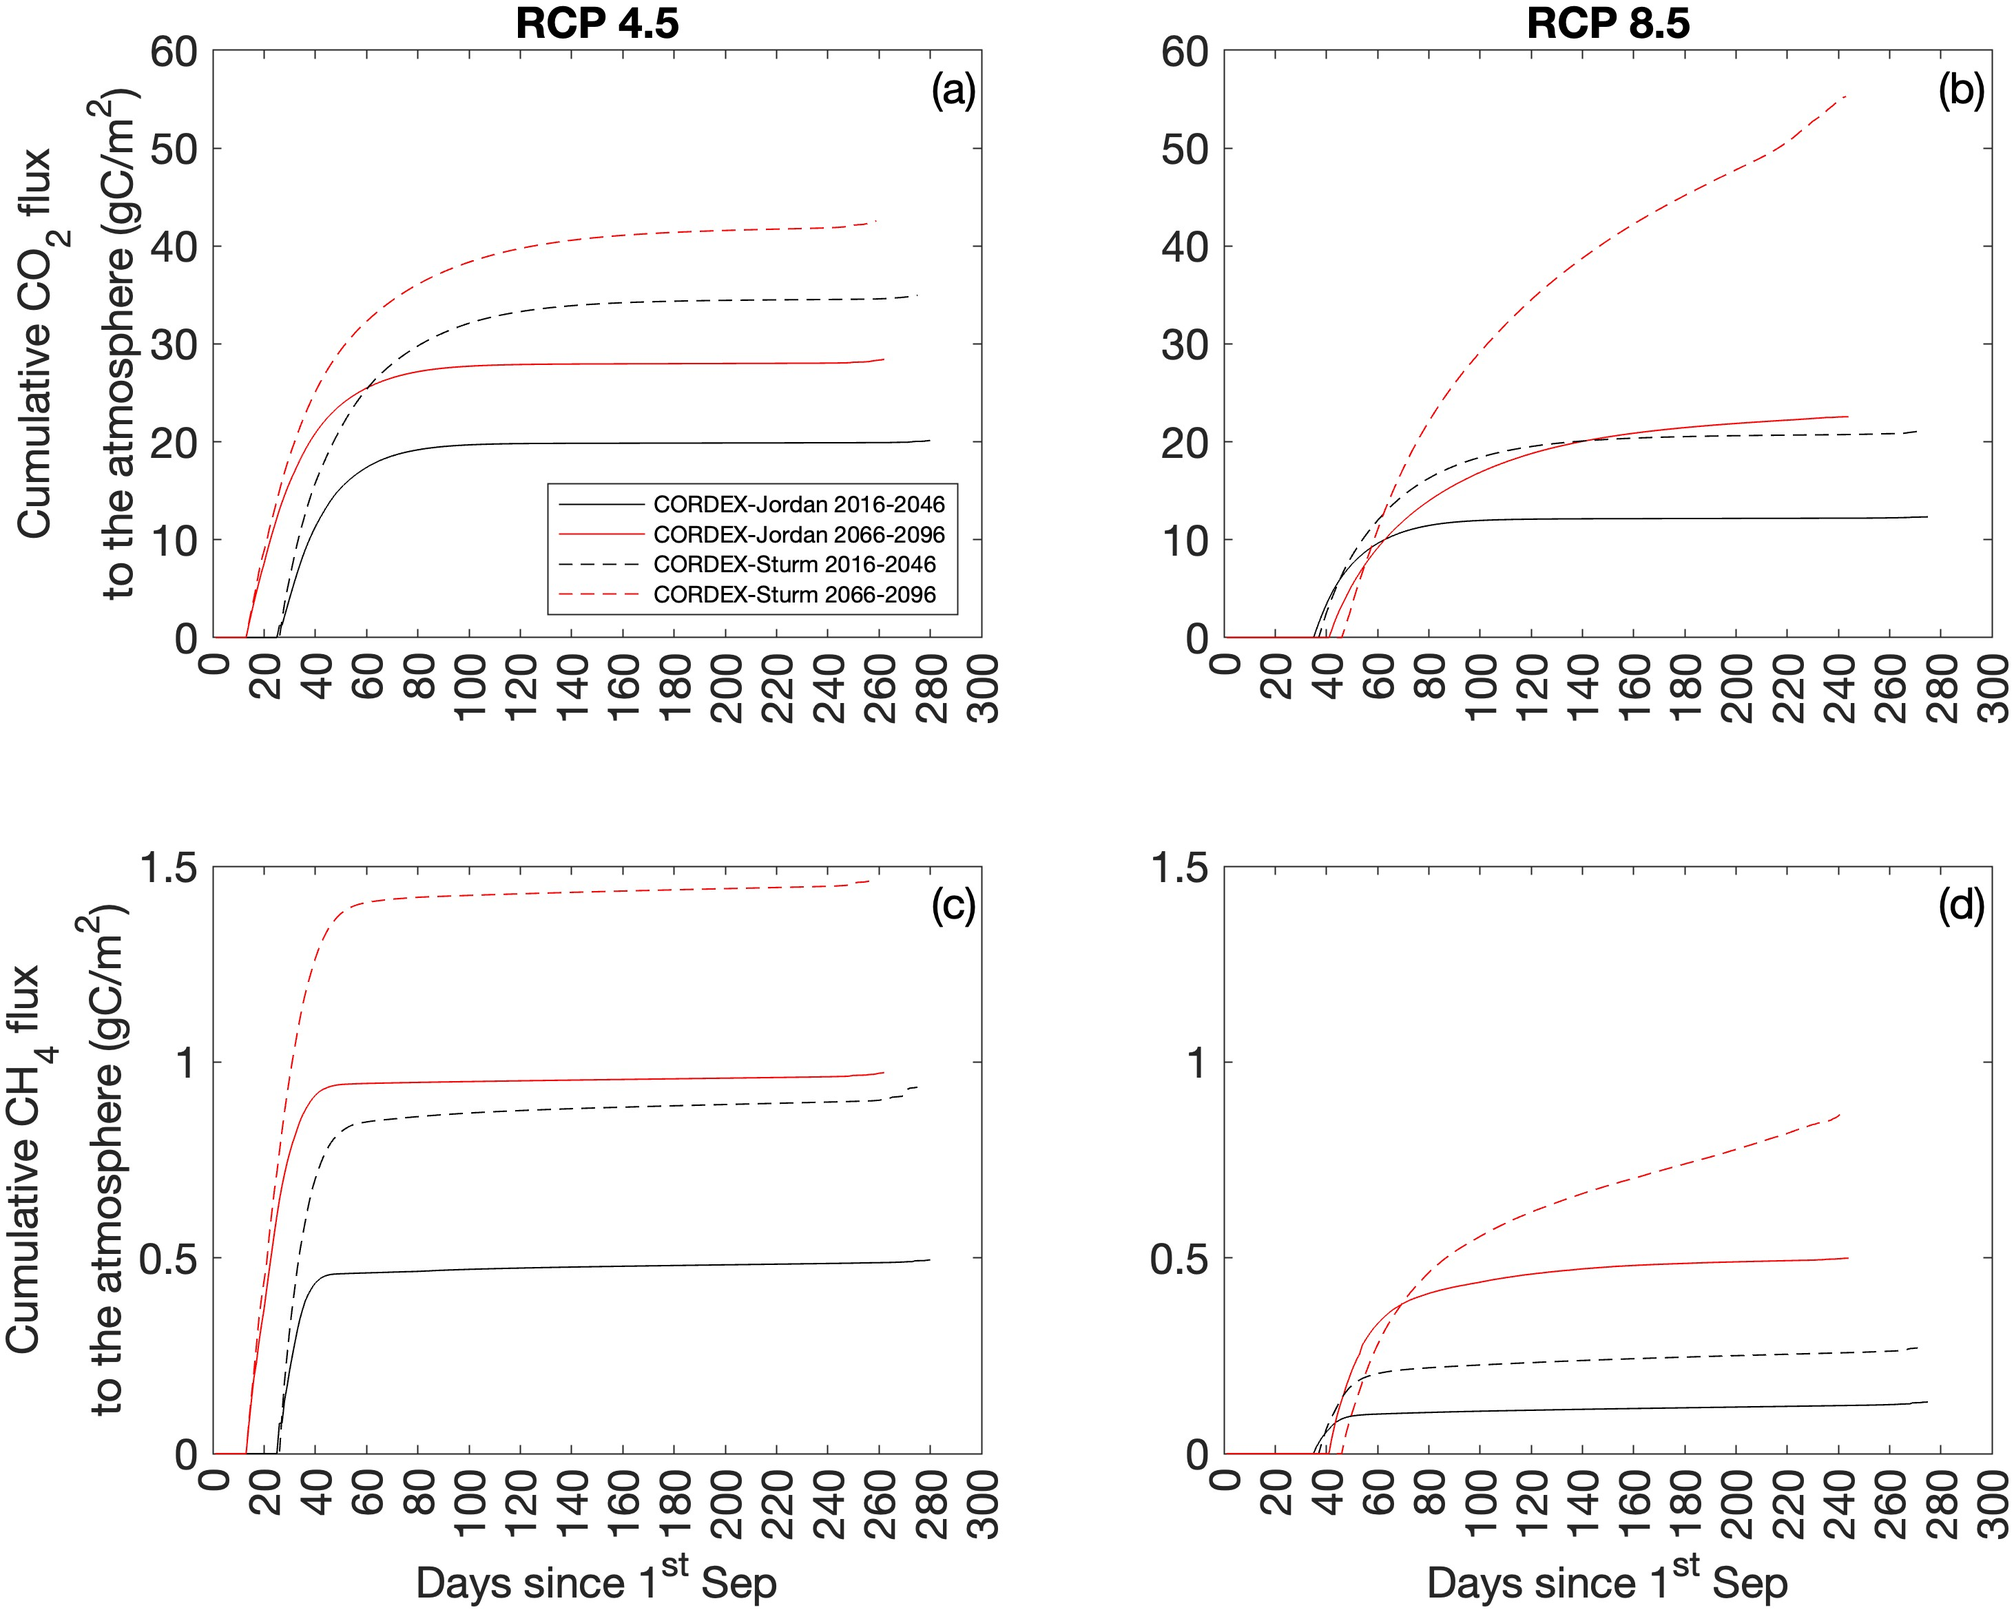
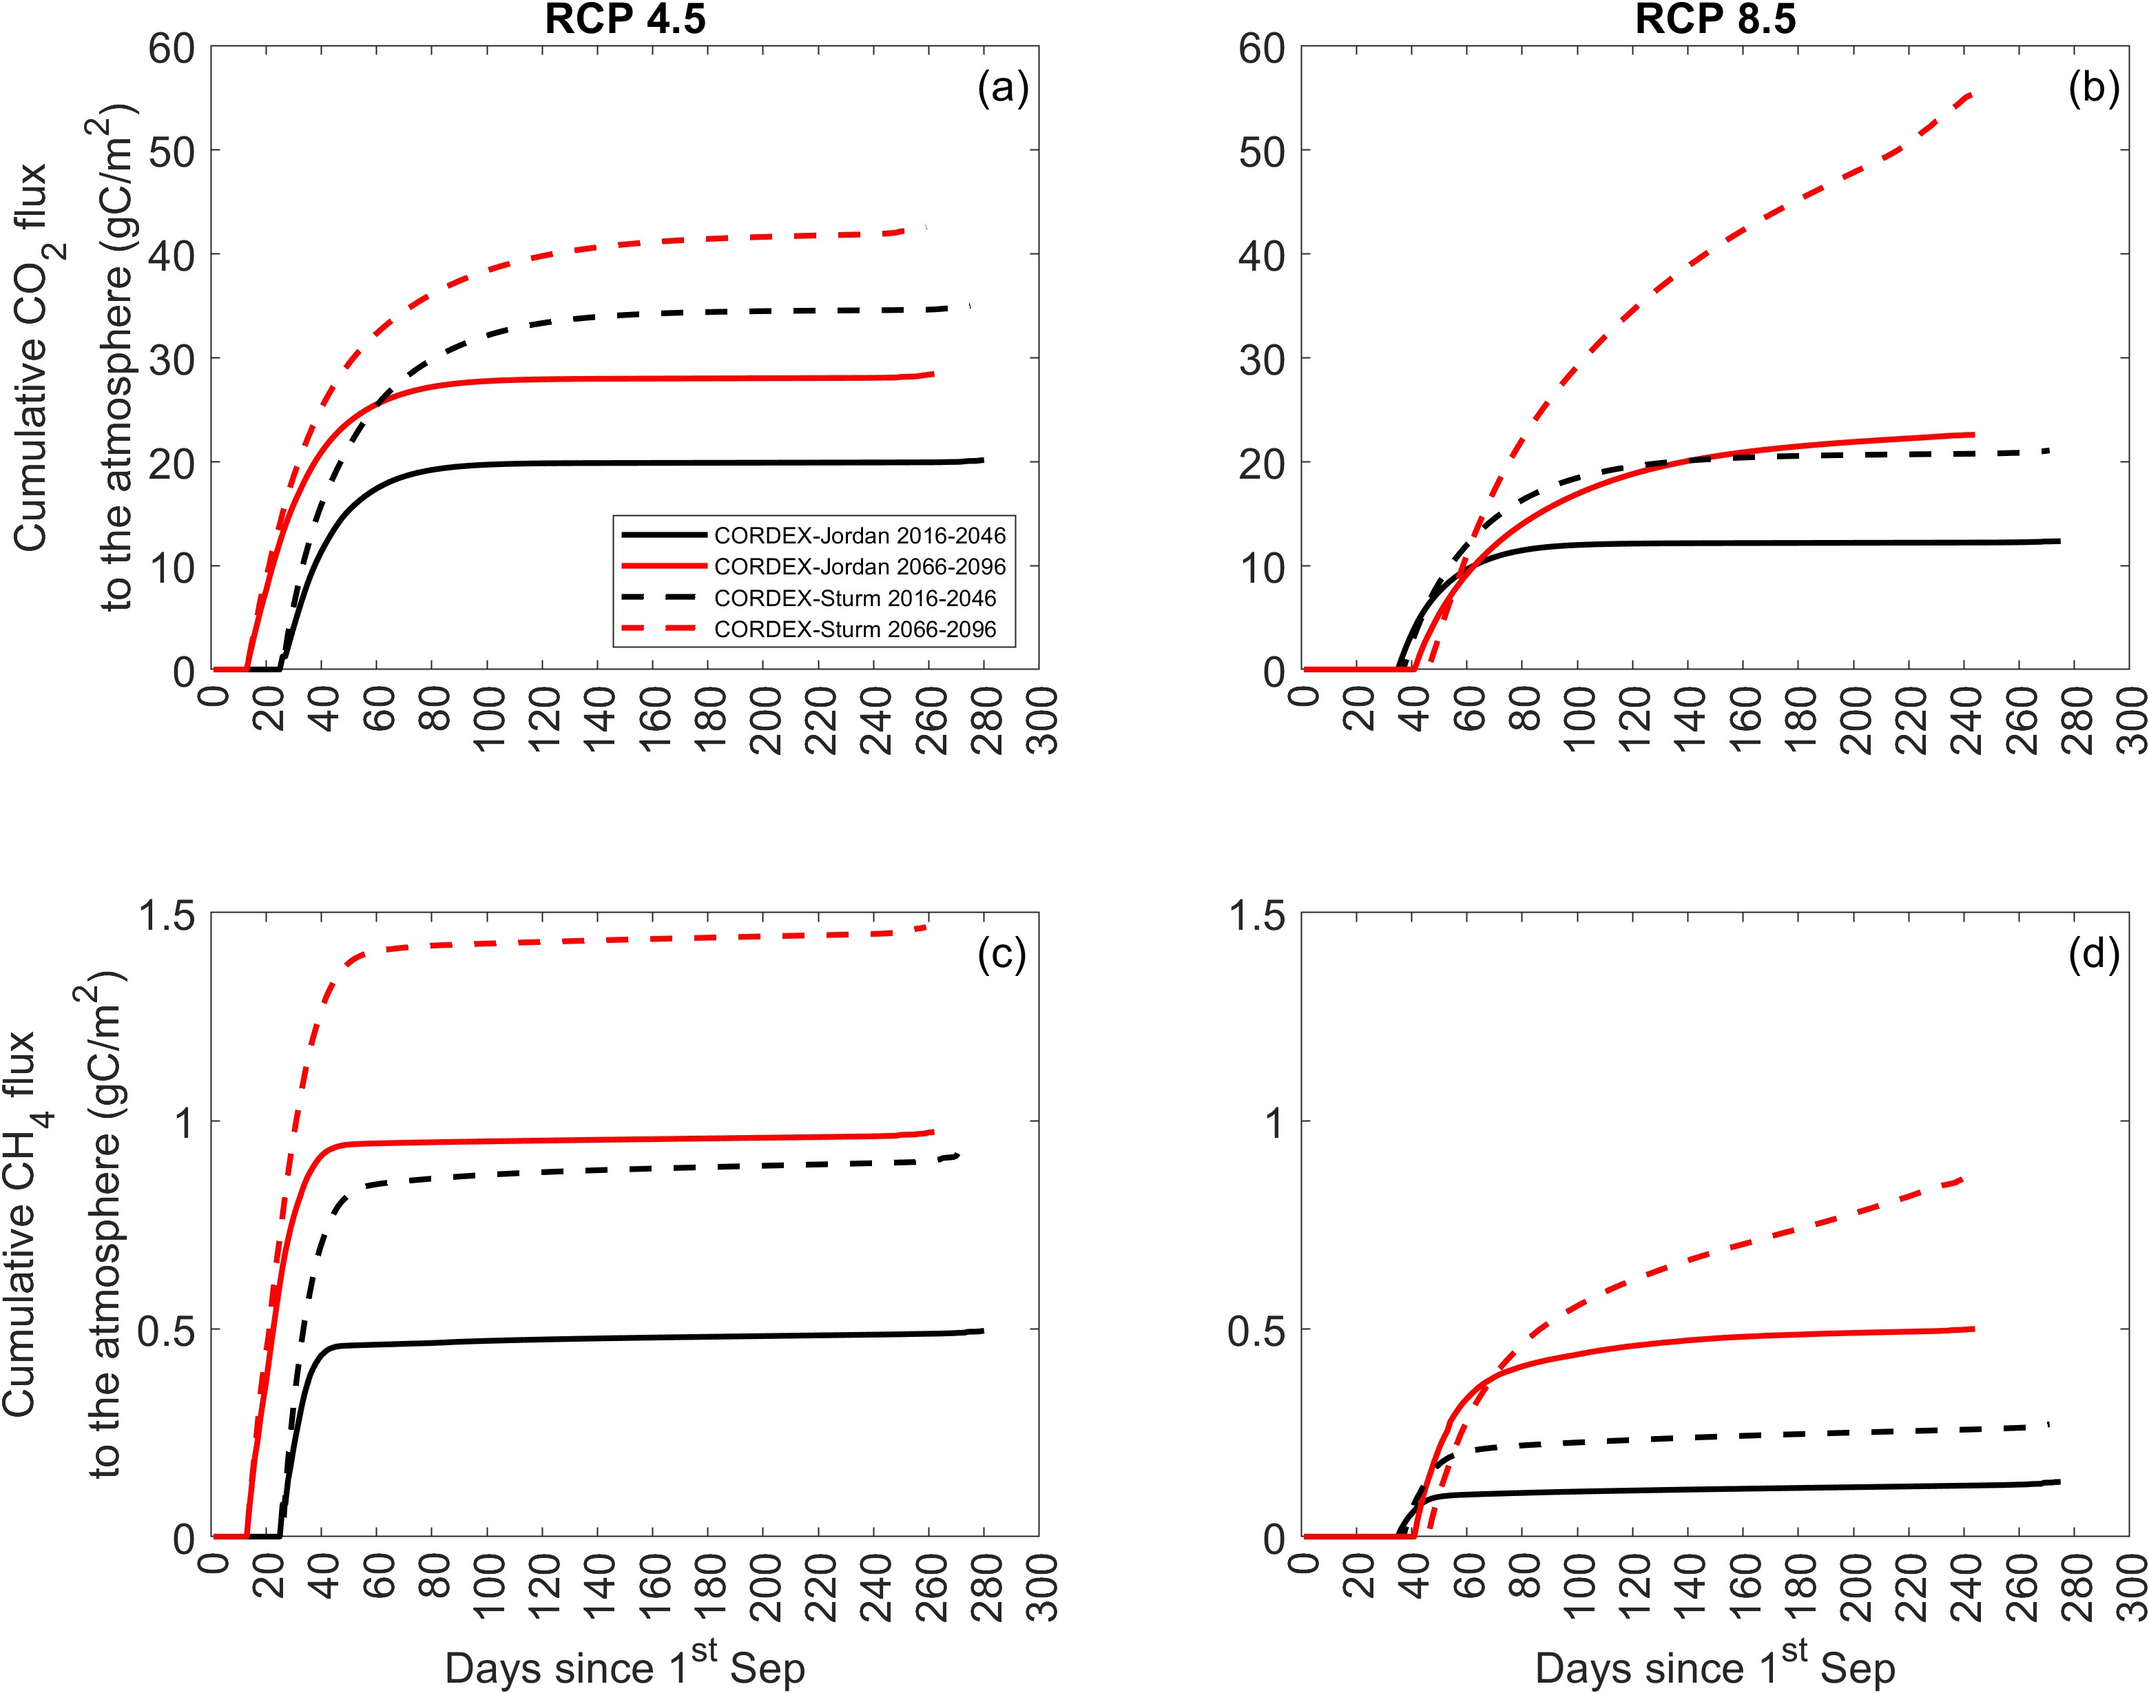
editing figure export commands

diff --git a/CLM_TVC/Figure 5/cumulative_carbon.m b/CLM_TVC/Figure 5/cumulative_carbon.m
@@ -14,12 +14,12 @@ subplot(2,2,1)
 ix=find(diff(SRi_J_2046sum)==0); % find rows where the difference between consectiuve vals =0
 ix2=find(ix > 200); % cuts off rows pertaining to start of snow season
 ix3=min(ix(ix2)); % this finds the rows pertaining to end of season (i.e. >200) and then gets the minimum row (ie earliest snow off)
-p1 = plot([1:ix3], (SRi_J_2046sum(1:ix3,1)), 'black');
+p1 = plot([1:ix3], (SRi_J_2046sum(1:ix3,1)), 'black', LineWidth=2);
 hold on
 ix=find(diff(SRi_J_2096sum)==0); % find rows where the difference between consectiuve vals =0
 ix2=find(ix > 200); % cuts off rows pertaining to start of snow season
 ix3=min(ix(ix2)); % this finds the rows pertaining to end of season (i.e. >200) and then gets the minimum row (ie earliest snow off)
-p2 = plot([1:ix3], (SRi_J_2096sum(1:ix3,1)), 'red');
+p2 = plot([1:ix3], (SRi_J_2096sum(1:ix3,1)), 'red', LineWidth=2);
 
 %further plot options
 set(gca, 'xtick' ,[0:20:304]);
@@ -35,12 +35,12 @@ hold on
 ix=find(diff(SRi_S_2046sum)==0); % find rows where the difference between consectiuve vals =0
 ix2=find(ix > 200); % cuts off rows pertaining to start of snow season
 ix3=min(ix(ix2)); % this finds the rows pertaining to end of season (i.e. >200) and then gets the minimum row (ie earliest snow off)
-p3 = plot([1:ix3], (SRi_S_2046sum(1:ix3,1)), 'k--');
+p3 = plot([1:ix3], (SRi_S_2046sum(1:ix3,1)), 'k--', LineWidth=2);
 hold on
 ix=find(diff(SRi_S_2096sum)==0); % find rows where the difference between consectiuve vals =0
 ix2=find(ix > 200); % cuts off rows pertaining to start of snow season
 ix3=min(ix(ix2)); % this finds the rows pertaining to end of season (i.e. >200) and then gets the minimum row (ie earliest snow off)
-p4 = plot([1:ix3], (SRi_S_2096sum(1:ix3,1)), 'r--');
+p4 = plot([1:ix3], (SRi_S_2096sum(1:ix3,1)), 'r--', LineWidth=2);
 set(gca, 'xtick' ,[0:20:304]);
 hold on
 xlim([0 300])
@@ -62,12 +62,12 @@ subplot(2,2,2)
 ix=find(diff(SRi_J_2046sum)==0); % find rows where the difference between consectiuve vals =0
 ix2=find(ix > 200); % cuts off rows pertaining to start of snow season
 ix3=min(ix(ix2)); % this finds the rows pertaining to end of season (i.e. >200) and then gets the minimum row (ie earliest snow off)
-p3 = plot([1:ix3], (SRi_J_2046sum(1:ix3,1)), 'k-');
+p3 = plot([1:ix3], (SRi_J_2046sum(1:ix3,1)), 'k-', LineWidth=2);
 hold on
 ix=find(diff(SRi_J_2096sum)==0); % find rows where the difference between consectiuve vals =0
 ix2=find(ix > 200); % cuts off rows pertaining to start of snow season
 ix3=min(ix(ix2)); % this finds the rows pertaining to end of season (i.e. >200) and then gets the minimum row (ie earliest snow off)
-p4 = plot([1:ix3], (SRi_J_2096sum(1:ix3,1)), 'r-');
+p4 = plot([1:ix3], (SRi_J_2096sum(1:ix3,1)), 'r-', LineWidth=2);
 set(gca, 'xtick' ,[0:20:304]);
 hold on
 xlim([0 300])
@@ -81,12 +81,12 @@ hold on
 ix=find(diff(SRi_S_2046sum)==0); % find rows where the difference between consectiuve vals =0
 ix2=find(ix > 200); % cuts off rows pertaining to start of snow season
 ix3=min(ix(ix2)); % this finds the rows pertaining to end of season (i.e. >200) and then gets the minimum row (ie earliest snow off)
-p3 = plot([1:ix3], (SRi_S_2046sum(1:ix3,1)), 'k--');
+p3 = plot([1:ix3], (SRi_S_2046sum(1:ix3,1)), 'k--', LineWidth=2);
 hold on
 ix=find(diff(SRi_S_2096sum)==0); % find rows where the difference between consectiuve vals =0
 ix2=find(ix > 200); % cuts off rows pertaining to start of snow season
 ix3=min(ix(ix2)); % this finds the rows pertaining to end of season (i.e. >200) and then gets the minimum row (ie earliest snow off)
-p4 = plot([1:ix3], (SRi_S_2096sum(1:ix3,1)), 'r--');
+p4 = plot([1:ix3], (SRi_S_2096sum(1:ix3,1)), 'r--', LineWidth=2);
 set(gca, 'xtick' ,[0:20:304]);
 hold on
 ylim([0 60])
@@ -104,12 +104,12 @@ subplot(2,2,3)
 ix=find(diff(FCH4i_J_2046sum)==0); % find rows where the difference between consectiuve vals =0
 ix2=find(ix > 200); % cuts off rows pertaining to start of snow season
 ix3=min(ix(ix2)); % this finds the rows pertaining to end of season (i.e. >200) and then gets the minimum row (ie earliest snow off)
-p3 = plot([1:ix3], (FCH4i_J_2046sum(1:ix3,1)), 'k-');
+p3 = plot([1:ix3], (FCH4i_J_2046sum(1:ix3,1)), 'k-', LineWidth=2);
 hold on
 ix=find(diff(FCH4i_J_2096sum)==0); % find rows where the difference between consectiuve vals =0
 ix2=find(ix > 200); % cuts off rows pertaining to start of snow season
 ix3=min(ix(ix2)); % this finds the rows pertaining to end of season (i.e. >200) and then gets the minimum row (ie earliest snow off)
-p4 = plot([1:ix3], (FCH4i_J_2096sum(1:ix3,1)), 'r-');
+p4 = plot([1:ix3], (FCH4i_J_2096sum(1:ix3,1)), 'r-', LineWidth=2);
 set(gca, 'xtick' ,[0:20:304]);
 hold on
 xlim([0 300])
@@ -123,12 +123,12 @@ hold on
 ix=find(diff(FCH4i_S_2046sum)==0); % find rows where the difference between consectiuve vals =0
 ix2=find(ix > 200); % cuts off rows pertaining to start of snow season
 ix3=min(ix(ix2)); % this finds the rows pertaining to end of season (i.e. >200) and then gets the minimum row (ie earliest snow off)
-p3 = plot([1:ix3], (FCH4i_S_2046sum(1:ix3,1)), 'k--');
+p3 = plot([1:ix3], (FCH4i_S_2046sum(1:ix3,1)), 'k--', LineWidth=2);
 hold on
 ix=find(diff(FCH4i_S_2096sum)==0); % find rows where the difference between consectiuve vals =0
 ix2=find(ix > 200); % cuts off rows pertaining to start of snow season
 ix3=min(ix(ix2)); % this finds the rows pertaining to end of season (i.e. >200) and then gets the minimum row (ie earliest snow off)
-p4 = plot([1:ix3], (FCH4i_S_2096sum(1:ix3,1)), 'r--');
+p4 = plot([1:ix3], (FCH4i_S_2096sum(1:ix3,1)), 'r--', LineWidth=2);
 set(gca, 'xtick' ,[0:20:304]);
 hold on
 xlim([0 300])
@@ -149,12 +149,12 @@ subplot(2,2,4)
 ix=find(diff(FCH4i_J_2046sum)==0); % find rows where the difference between consectiuve vals =0
 ix2=find(ix > 200); % cuts off rows pertaining to start of snow season
 ix3=min(ix(ix2)); % this finds the rows pertaining to end of season (i.e. >200) and then gets the minimum row (ie earliest snow off)
-p3 = plot([1:ix3], (FCH4i_J_2046sum(1:ix3,1)), 'k-');
+p3 = plot([1:ix3], (FCH4i_J_2046sum(1:ix3,1)), 'k-', LineWidth=2);
 hold on
 ix=find(diff(FCH4i_J_2096sum)==0); % find rows where the difference between consectiuve vals =0
 ix2=find(ix > 200); % cuts off rows pertaining to start of snow season
 ix3=min(ix(ix2)); % this finds the rows pertaining to end of season (i.e. >200) and then gets the minimum row (ie earliest snow off)
-p4 = plot([1:ix3], (FCH4i_J_2096sum(1:ix3,1)), 'r-');
+p4 = plot([1:ix3], (FCH4i_J_2096sum(1:ix3,1)), 'r-', LineWidth=2);
 set(gca, 'xtick' ,[0:20:304]);
 hold on
 xlim([0 300])
@@ -168,28 +168,27 @@ hold on
 ix=find(diff(FCH4i_S_2046sum)==0); % find rows where the difference between consectiuve vals =0
 ix2=find(ix > 200); % cuts off rows pertaining to start of snow season
 ix3=min(ix(ix2)); % this finds the rows pertaining to end of season (i.e. >200) and then gets the minimum row (ie earliest snow off)
-p3 = plot([1:ix3], (FCH4i_S_2046sum(1:ix3,1)), 'k--');
+p3 = plot([1:ix3], (FCH4i_S_2046sum(1:ix3,1)), 'k--', LineWidth=2);
 hold on
 ix=find(diff(FCH4i_S_2096sum)==0); % find rows where the difference between consectiuve vals =0
 ix2=find(ix > 200); % cuts off rows pertaining to start of snow season
 ix3=min(ix(ix2)); % this finds the rows pertaining to end of season (i.e. >200) and then gets the minimum row (ie earliest snow off)
-p4 = plot([1:ix3], (FCH4i_S_2096sum(1:ix3,1)), 'r--');
+p4 = plot([1:ix3], (FCH4i_S_2096sum(1:ix3,1)), 'r--', LineWidth=2);
 set(gca, 'xtick' ,[0:20:304]);
 hold on
 ylim([0 1.5])
 xlim([0 300])
 xlabel('Days since 1^{st} Sep')
 %% plot options
-annotation('textbox', [0.436448784376245 0.869630549190156 0.0329015544041451 0.0536062378167641], 'String', '(a)', 'EdgeColor', 'none', 'FontSize', 14, 'FontWeight', 'normal')
-annotation('textbox', [0.875316859306496 0.869630549190156 0.0334196891191709 0.0536062378167641], 'String', '(b)', 'EdgeColor', 'none', 'FontSize', 14, 'FontWeight', 'normal')
-annotation('textbox', [0.436448784376245 0.396297215856823 0.0329015544041451 0.053606237816764], 'String', '(c)', 'EdgeColor', 'none', 'FontSize', 14, 'FontWeight', 'normal')
-annotation('textbox', [0.875316859306496 0.396297215856823 0.0334196891191711 0.0536062378167641], 'String', '(d)', 'EdgeColor', 'none', 'FontSize', 14, 'FontWeight', 'normal')
+annotation('textbox', [0.433448784376245 0.869630549190156 0.0329015544041451 0.0536062378167641], 'String', '(a)', 'EdgeColor', 'none', 'FontSize', 14, 'FontWeight', 'normal')
+annotation('textbox', [0.874316859306496 0.869630549190156 0.0334196891191709 0.0536062378167641], 'String', '(b)', 'EdgeColor', 'none', 'FontSize', 14, 'FontWeight', 'normal')
+annotation('textbox', [0.433448784376245 0.396297215856823 0.0329015544041451 0.053606237816764], 'String', '(c)', 'EdgeColor', 'none', 'FontSize', 14, 'FontWeight', 'normal')
+annotation('textbox', [0.874316859306496 0.396297215856823 0.0334196891191711 0.0536062378167641], 'String', '(d)', 'EdgeColor', 'none', 'FontSize', 14, 'FontWeight', 'normal')
 %% save plot
 set(gcf, 'Position', [100 200 1150 850]);
 fontsize(15,'points')
 legendObj = findobj(gcf, 'Type', 'Legend');
 fs=8;
 set(legendObj, 'FontSize', fs);
-cd /Users/johnnyrutherford/'OneDrive - Northumbria University - Production Azure AD'/Documents/Figures/CLMdefaultTVC/
-% cd C:/Users/jadru/'OneDrive - Northumbria University - Production Azure AD'/Documents/Figures/CLMdefaultTVC/          
+cd C:\Users\jadru\'OneDrive - Northumbria University - Production Azure AD'\Documents\Figures\CLMdefaultTVC
 exportgraphics(gcf, "cumu.jpg", "Resolution",300)

diff --git a/CORDEX_TVC/Figure 1 and 2/T_P_frequency_TVC.m b/CORDEX_TVC/Figure 1 and 2/T_P_frequency_TVC.m
@@ -946,7 +946,5 @@ annotation('textbox', [0.622479166666667 0.77381231451366 0.1 0.1], 'String', '(
 annotation('textbox', [0.622479166666667 0.57081231451366, 0.1, 0.1], 'String', '(d)', 'EdgeColor', 'none', 'FontSize', 14, 'FontWeight', 'normal')
 annotation('textbox', [0.622479166666667, 0.37, 0.1, 0.1], 'String', '(f)', 'EdgeColor', 'none', 'FontSize', 14, 'FontWeight', 'normal')
 annotation('textbox', [0.622479166666667, 0.174, 0.1, 0.1], 'String', '(h)', 'EdgeColor', 'none', 'FontSize', 14, 'FontWeight', 'normal')
-%% Save figure
-% cd /Users/johnnyrutherford/'OneDrive - Northumbria University - Production Azure AD'/Documents/Figures/'Alex and bo forcing data'/TVC/
-cd C:\Users\w22026593\'OneDrive - Northumbria University - Production Azure AD'\Documents\Figures\'Alex and bo forcing data'\TVC
-exportgraphics(gcf, "frequency_tiled.jpg", "Resolution",300)
+%% Optional figure export
+% exportgraphics(gcf, "temp_precip_freq.jpg", "Resolution",300)

diff --git a/CLM_TVC/Figure 3/snow_and_soil.m b/CLM_TVC/Figure 3/snow_and_soil.m
@@ -444,7 +444,5 @@ annotation('textbox', [0.44, 0.235, 0.1, 0.1], 'String', '(e)', 'EdgeColor', 'no
 annotation('textbox',  [0.866979166666667 0.821244008502731 0.1 0.1], 'String', '(b)', 'EdgeColor', 'none', 'FontSize', 14, 'FontWeight', 'normal')
 annotation('textbox', [0.866979166666667 0.527681231451366, 0.1, 0.1], 'String', '(d)', 'EdgeColor', 'none', 'FontSize', 14, 'FontWeight', 'normal')
 annotation('textbox', [0.866979166666667, 0.235, 0.1, 0.1], 'String', '(f)', 'EdgeColor', 'none', 'FontSize', 14, 'FontWeight', 'normal')
-%% Save figure
-% cd /Users/johnnyrutherford/'OneDrive - Northumbria University - Production Azure AD'/Documents/Figures/CLMdefaultTVC/
-cd C:/Users/w22026593/'OneDrive - Northumbria University - Production Azure AD'/Documents/Figures/CLMdefaultTVC/
-exportgraphics(gcf, "SWE_GT_SL.jpg", "Resolution",300)
+%% Optional figure export
+% exportgraphics(gcf, "SWE_GT_SL.jpg", "Resolution",300)

diff --git a/CORDEX_TVC/Figure 1 and 2/T_and_P_TVC.m b/CORDEX_TVC/Figure 1 and 2/T_and_P_TVC.m
@@ -359,7 +359,5 @@ annotation('textbox', [0.44, 0.82, 0.1, 0.1], 'String', '(a)', 'EdgeColor', 'non
 annotation('textbox', [0.86, 0.82, 0.1, 0.1], 'String', '(b)', 'EdgeColor', 'none', 'FontSize', 14, 'FontWeight', 'normal')
 annotation('textbox', [0.44, 0.38, 0.1, 0.1], 'String', '(c)', 'EdgeColor', 'none', 'FontSize', 14, 'FontWeight', 'normal')
 annotation('textbox', [0.86, 0.38, 0.1, 0.1], 'String', '(d)', 'EdgeColor', 'none', 'FontSize', 14, 'FontWeight', 'normal')
-%% Save figure
-% cd /Users/johnnyrutherford/'OneDrive - Northumbria University - Production Azure AD'/Documents/Figures/'Alex and bo forcing data'/TVC/
-cd C:/Users/w22026593/'OneDrive - Northumbria University - Production Azure AD'/Documents/Figures/'Alex and bo forcing data'/TVC/
-exportgraphics(gcf, "rcps_tiled.jpg", "Resolution",300)
+%% Optional figure export
+% exportgraphics(gcf, "T_and_P_TVC.jpg", "Resolution",300)

diff --git a/CLM_TVC/Figure 4/heat_map.m b/CLM_TVC/Figure 4/heat_map.m
@@ -199,6 +199,5 @@ annotation('textbox', [0.318429943868739 0.101208576998051 0.0292746113989638 0.
 annotation('textbox', [0.528756476683937 0.101208576998051 0.0292746113989638 0.0536062378167641], 'String', '(g)', 'EdgeColor', 'none', 'FontSize', 14, 'FontWeight', 'normal')
 annotation('textbox', [0.741227871329879 0.101208576998051 0.0292746113989638 0.0536062378167641], 'String', '(h)', 'EdgeColor', 'none', 'FontSize', 14, 'FontWeight', 'normal')
 
-%% export
-cd /Users/johnnyrutherford/'OneDrive - Northumbria University - Production Azure AD'/Documents/Figures/'CLM STURM'/
-exportgraphics(gcf, "heat_map.jpg", "Resolution",300)
+%% Optional figure export
+% exportgraphics(gcf, "heat_map.jpg", "Resolution",300)
